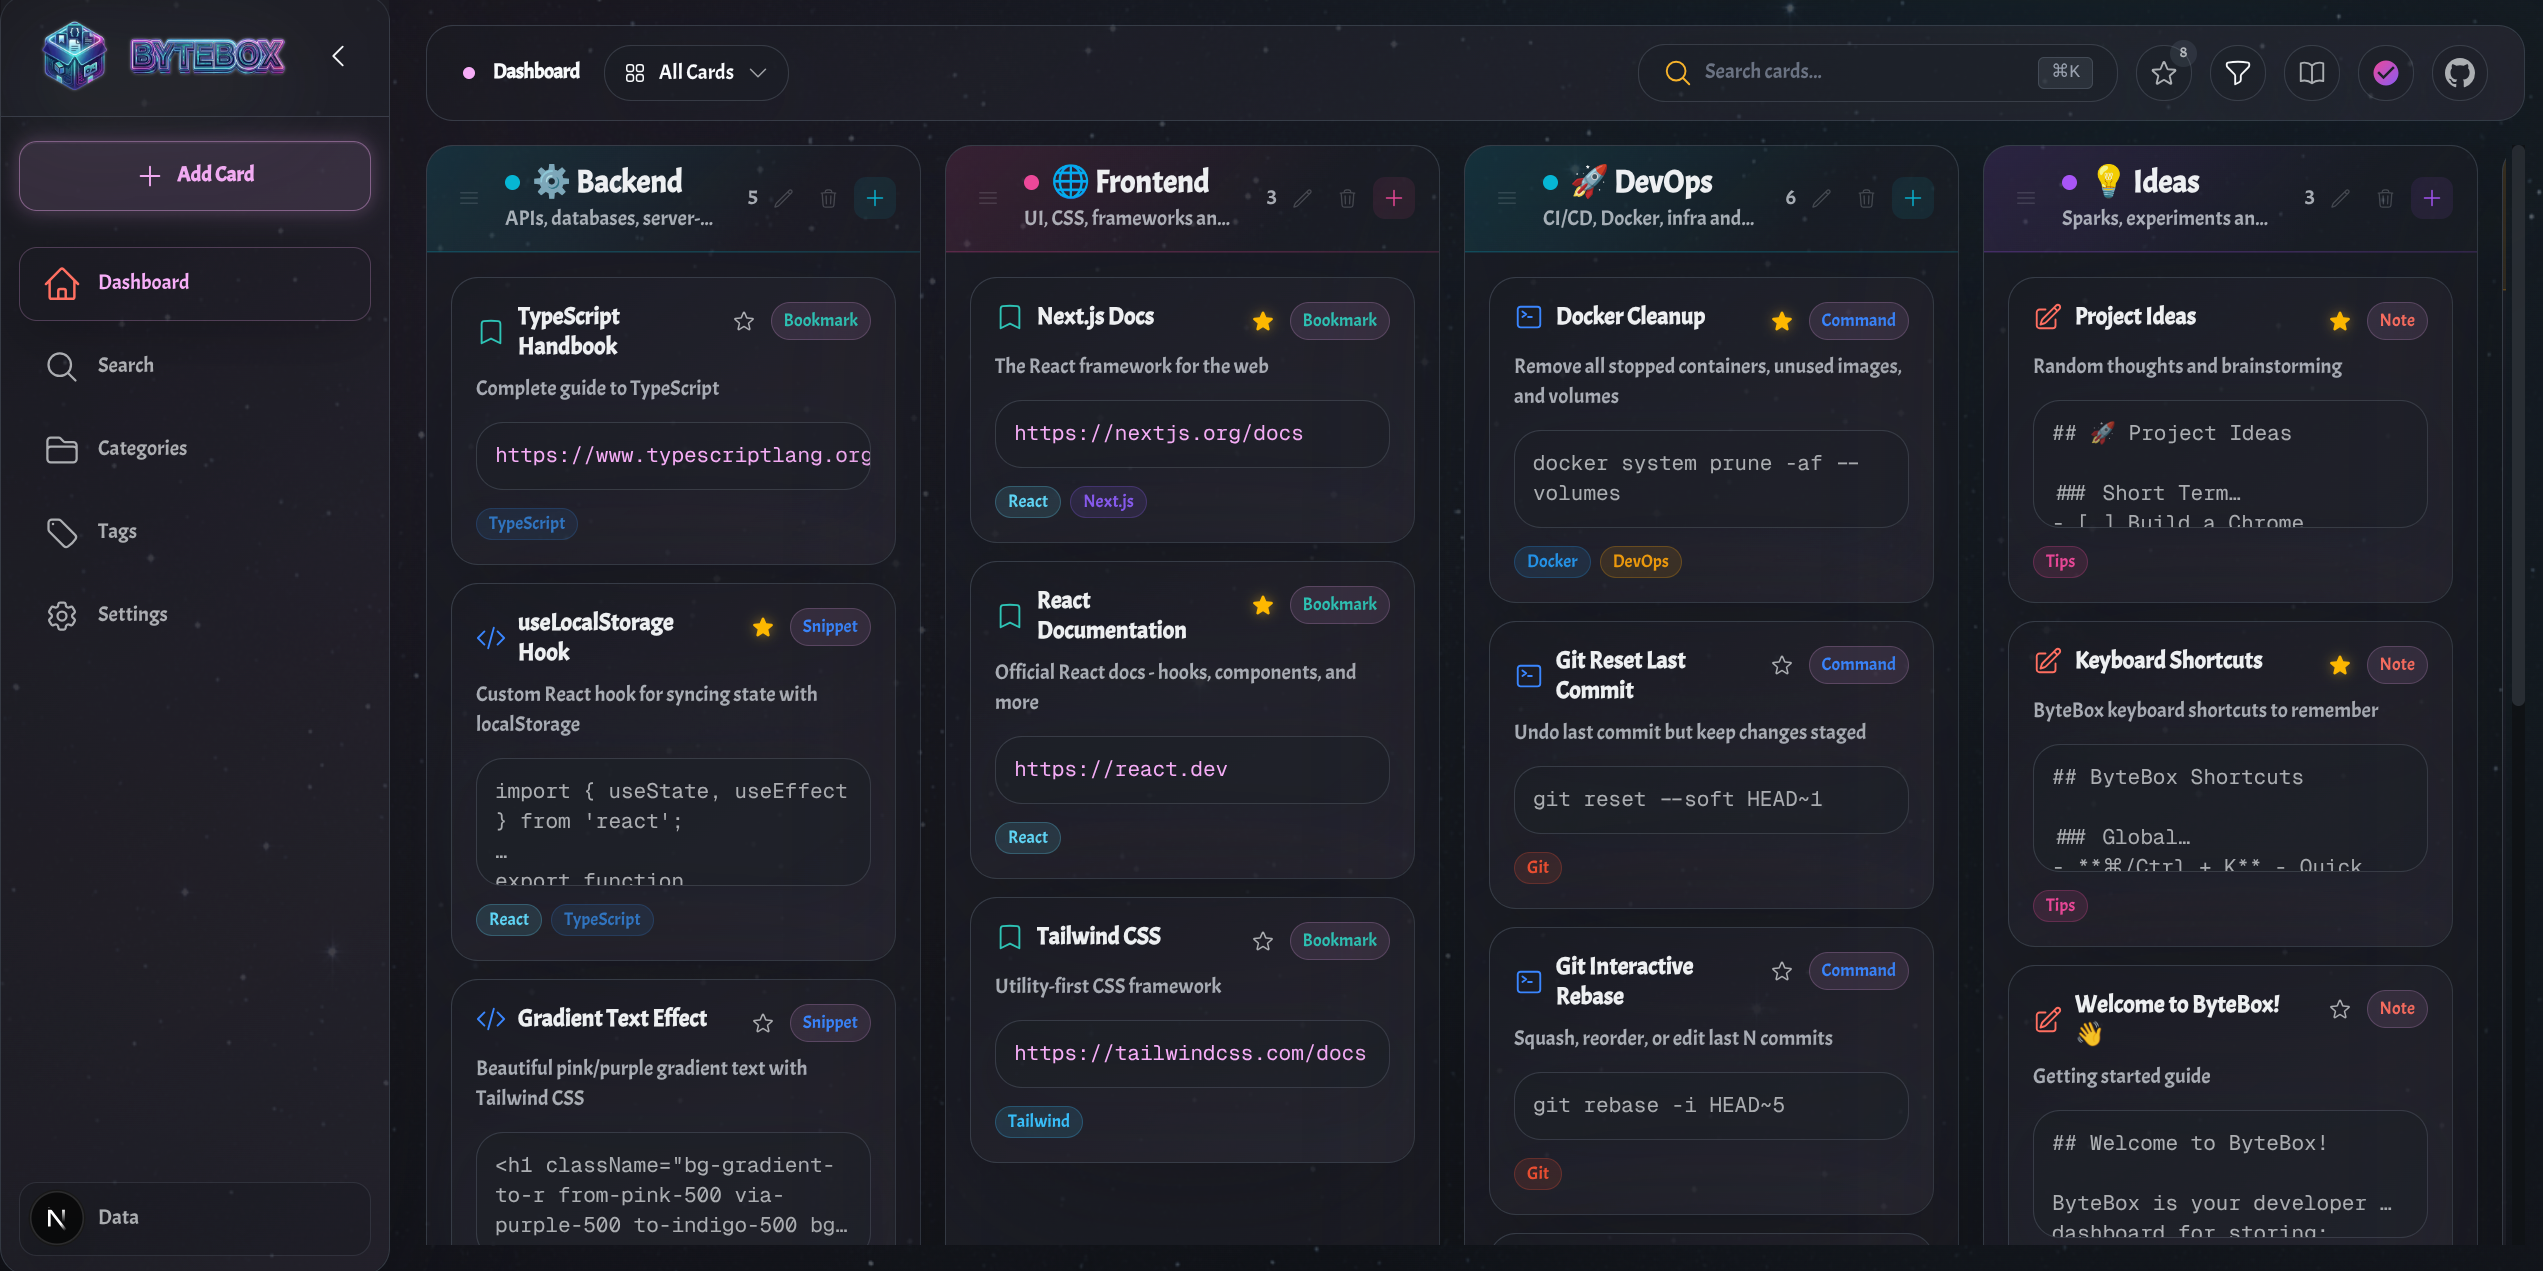
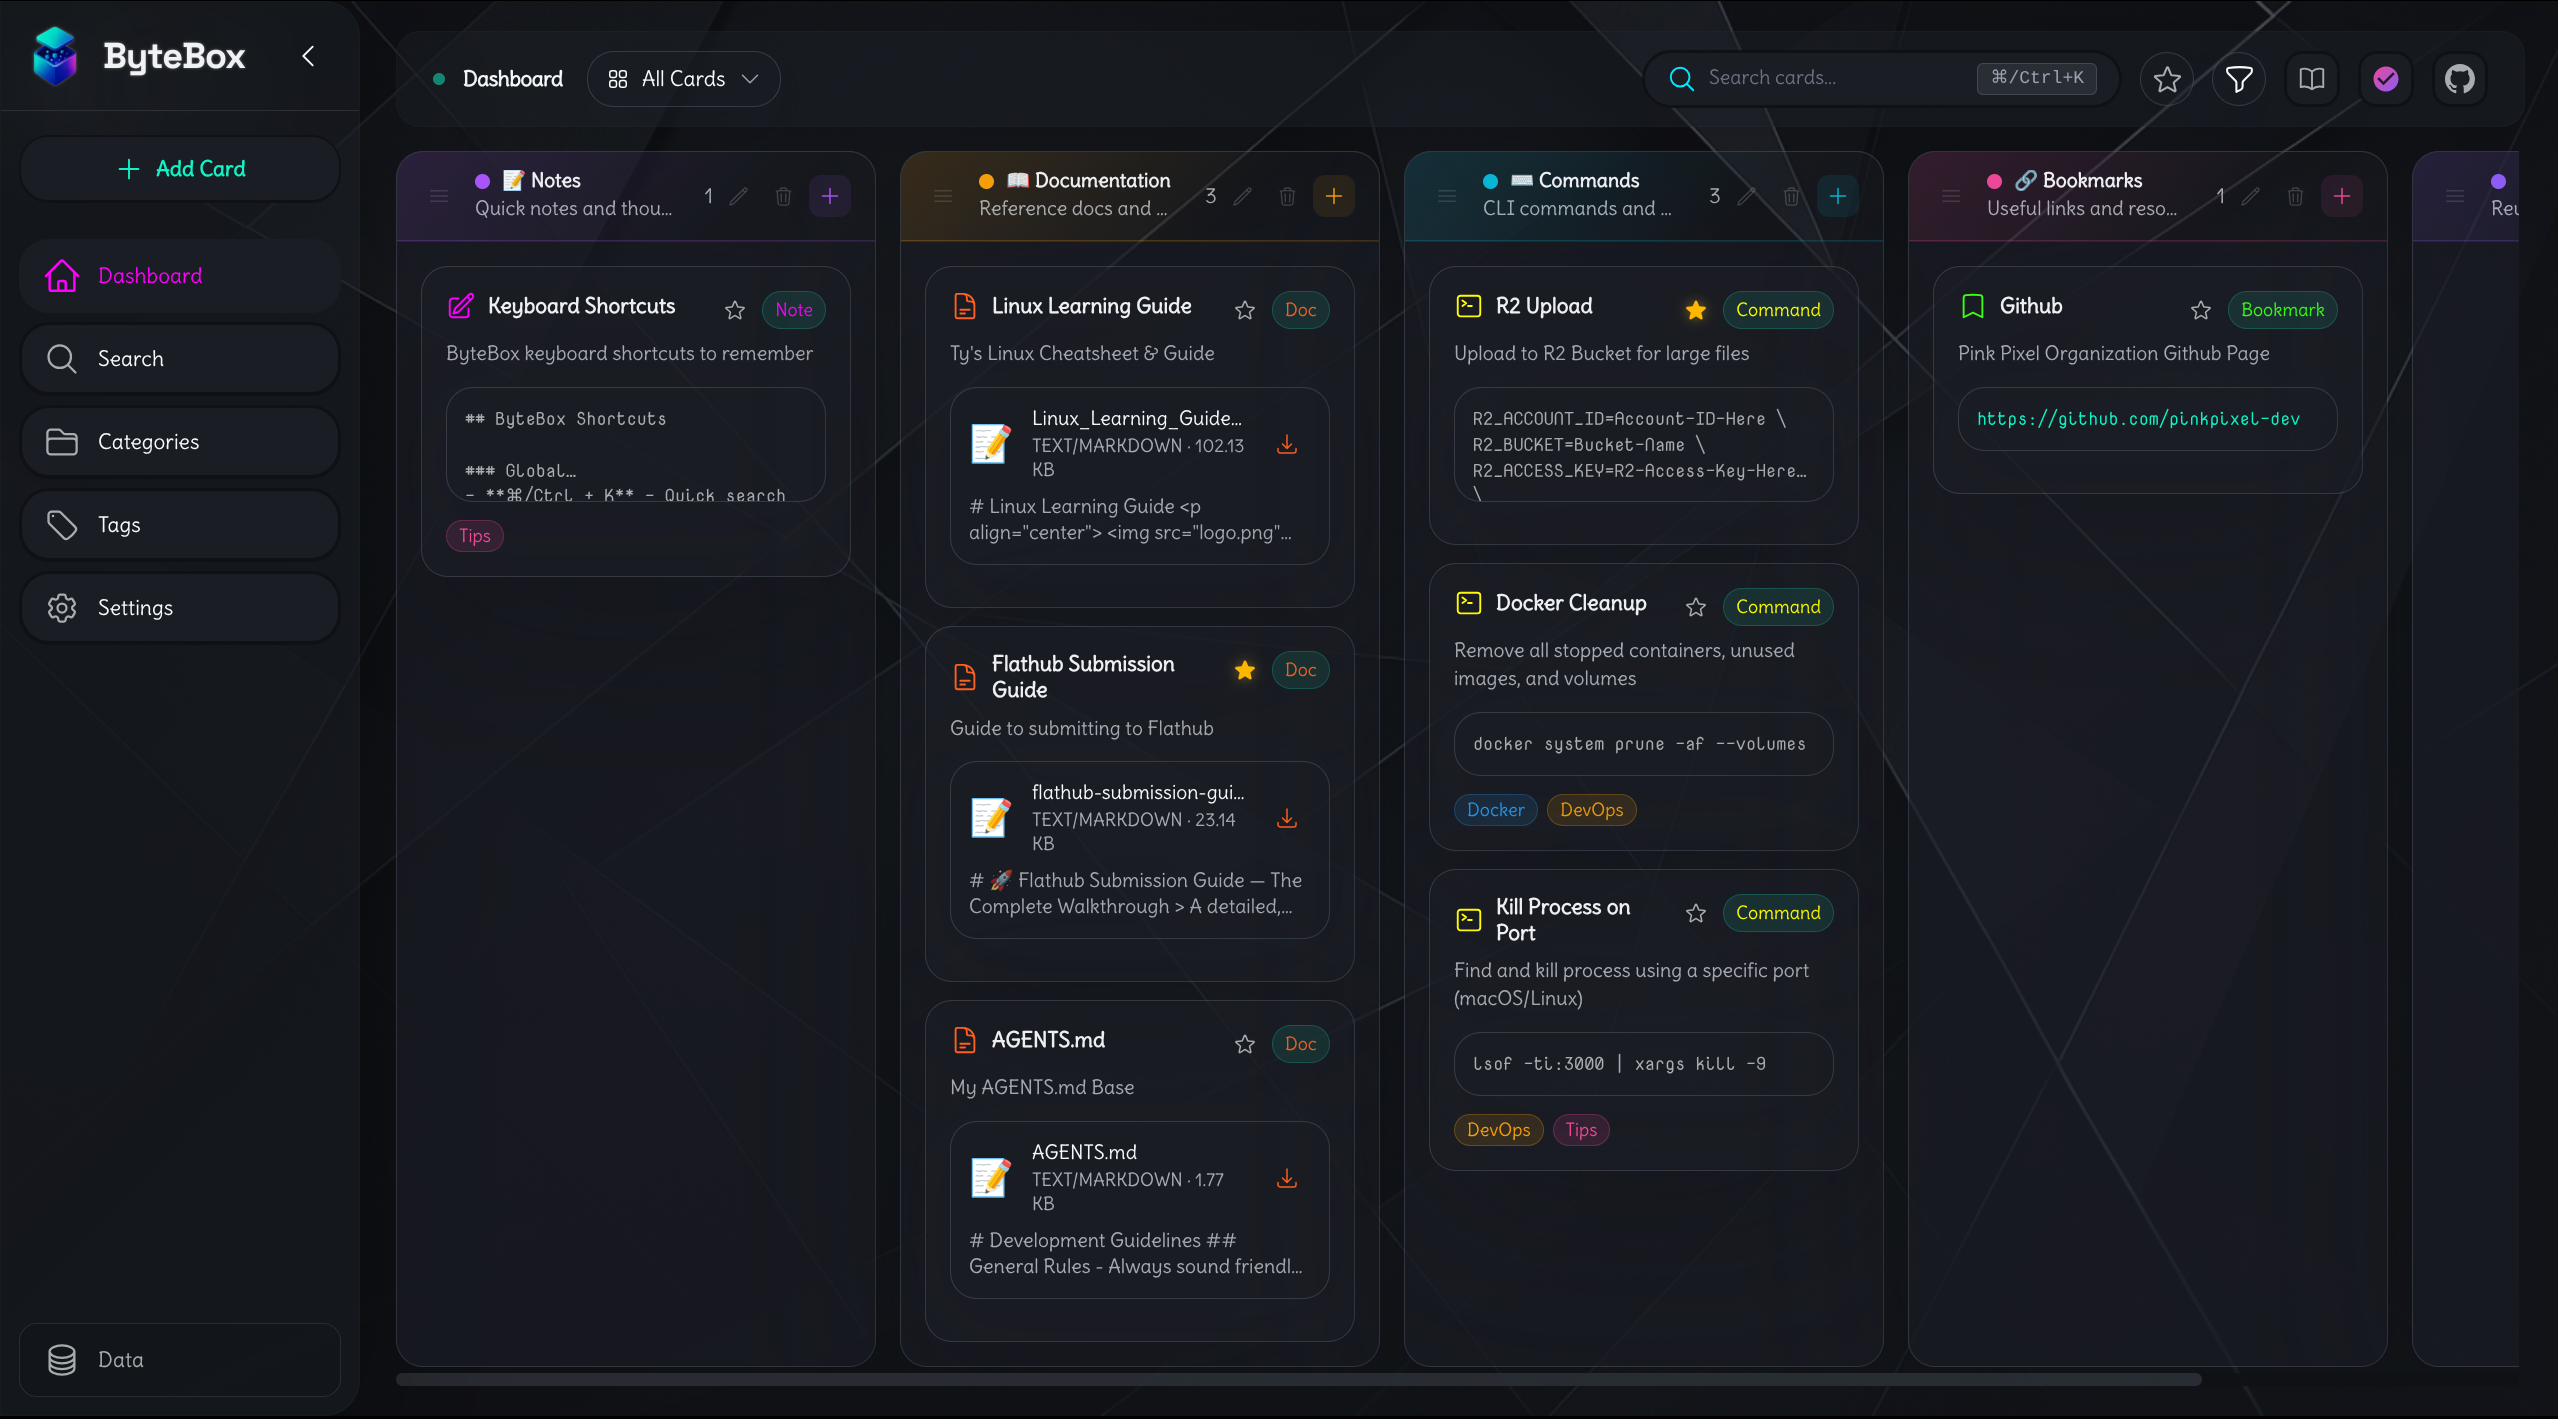
chore: unify brand iconography, update Electron assets, patch security vulnerabilities, and optimize build configuration

diff --git a/electron/main.ts b/electron/main.ts
@@ -181,7 +181,7 @@ function createWindow(): void {
     show: false,
     backgroundColor: "#0a0a0f", // matches ByteBox dark theme background
     title: "ByteBox",
-    icon: path.join(app.getAppPath(), "electron", "assets", "icons", "512x512.png"),
+    icon: path.join(app.getAppPath(), "public", "icon.png"),
     autoHideMenuBar: true,
     // On macOS, use the inset traffic-light style
     titleBarStyle: process.platform === "darwin" ? "hiddenInset" : "default",

diff --git a/CHANGELOG.md b/CHANGELOG.md
@@ -15,6 +15,18 @@ and this project adheres to [Semantic Versioning](https://semver.org/spec/v2.0.0
 
 - **Star Button Refinement** — Removed the star count badge from the header's star button and adjusted its size to match the filter button (`w-[22px] h-[22px]`) for a cleaner header layout.
 - **Board Scrolling Behavior** — Adjusted `AppLayout` to prevent the entire page from scrolling when viewing the board. The horizontal category scrollbar is now always visible at the bottom of the viewport, eliminating the need to scroll vertically to reach it.
+- **Unified Brand Iconography** — Completely removed the legacy `logo_banner.png` asset in favor of `icon.png`. The dashboard expanded sidebar, documentation site, open graph images, and hero section now all consistently use the new `icon.png`.
+- **Sidebar Header Typography** — Added the "ByteBox" text directly into the expanded sidebar and styled it with `Space Grotesk` to match the official documentation site perfectly.
+- **Desktop Application Icons** — Regenerated all Electron application icons from the new `icon.png` asset, ensuring clear presentation on Linux, macOS, and Windows.
+
+#### Security & Dependencies
+
+- **Patched Vulnerabilities** — Resolved 14 npm security vulnerabilities via `package.json` overrides, including deep updates for `lodash`, `postcss`, and `@hono/node-server` without triggering destructive breaking changes to Next.js or Prisma.
+
+#### Fixed
+
+- **Electron Build Issue** — Fixed a critical Linux build error caused by a stray `package-lock.json` file in the home directory that broke Next.js Turbopack path inference, resulting in out-of-bounds symlinks for `better-sqlite3`.
+- **Reduced Bundle Size** — Reduced `.deb` package output from ~460MB to ~256MB.
 
 ---
 

diff --git a/README.md b/README.md
@@ -1,4 +1,6 @@
-![ByteBox Logo](./public/icon.png)
+<p align="center">
+  <img src="./public/icon.png" alt="ByteBox Logo" width="300" height="300" />
+</p>
 
 > A **lightweight web dashboard** for developer resources — your personal dev toolkit in one beautiful place.
 
